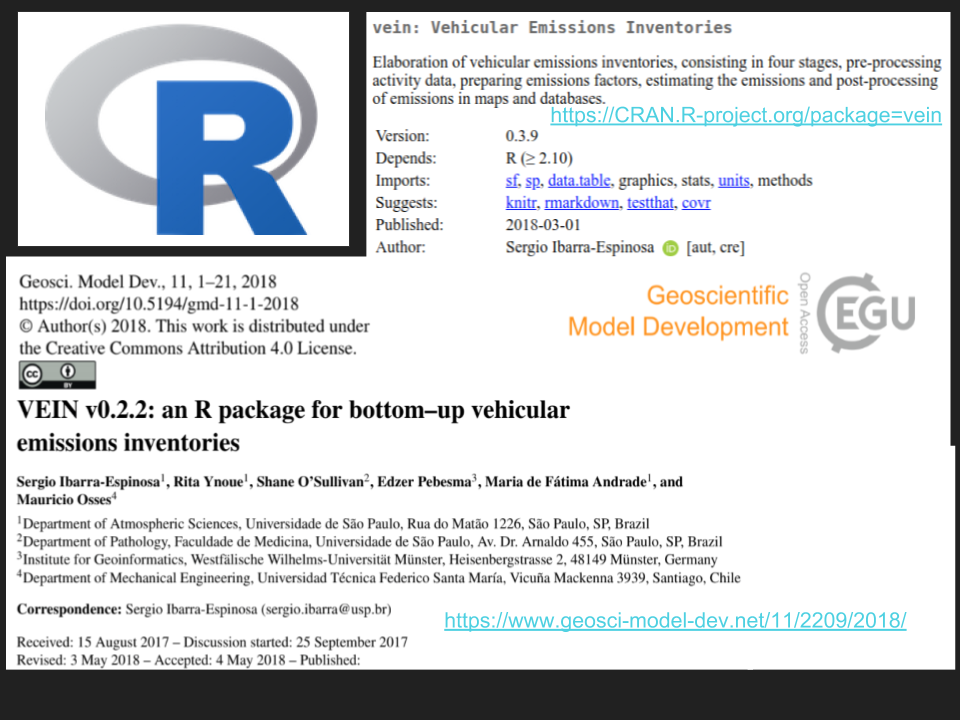
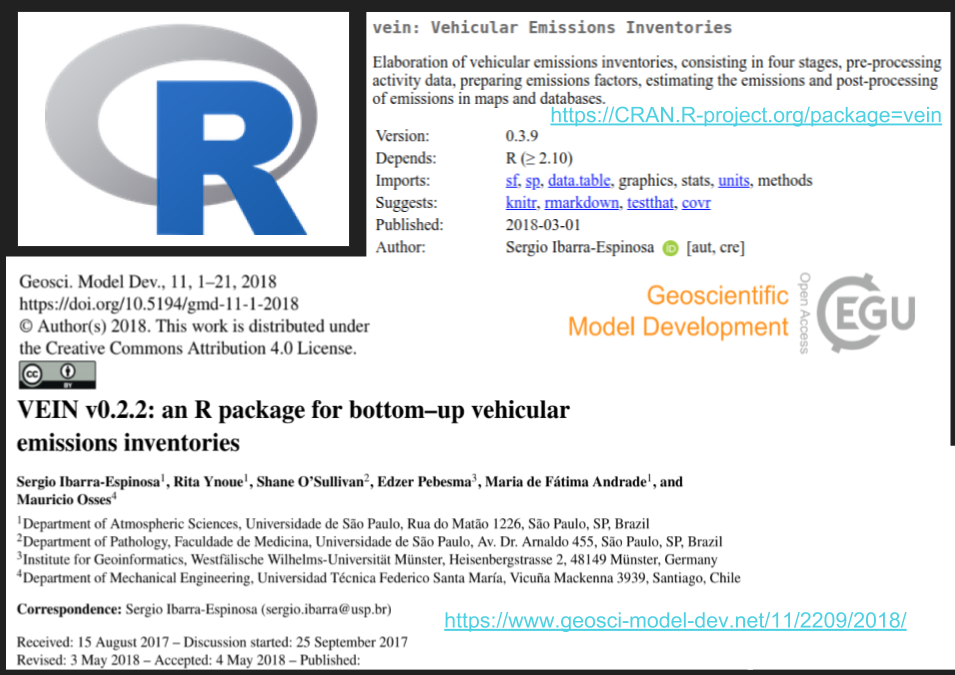
update

diff --git a/index.html b/index.html
@@ -173,7 +173,6 @@
 <!-- Titulo -->
 <div id="title" class="step" data-x="0" data-y="1000" data-scale="5">
   <img src="logo.jpg" width="100" height="100" alt="IAG">
-  <img src="logovein.jpg" width="100" height="100" alt="IAG">
    <!-- <span class="try">then you should try</span>
     <h1>impress.js<sup>*</sup></h1>
     <span class="footnote"><sup>*</sup> no rhyme intended</span> -->
@@ -368,7 +367,8 @@
     </div>
     <!-- Otra apre -->
        <div class="step slide" data-x="3000" data-y="-1500" data-z="0" data-rotate="360" data-scale="1">
-          <img src="vein.png" alt="" align="top" style="width:800px;height:600px;">
+          <img src="vein.png" alt="" align="top" style="width:800px;height:550px;">
+  <img src="logovein.jpg" width="100" height="100" alt="IAG" align="top">
 
       </div>
    <!-- Otra apre -->
